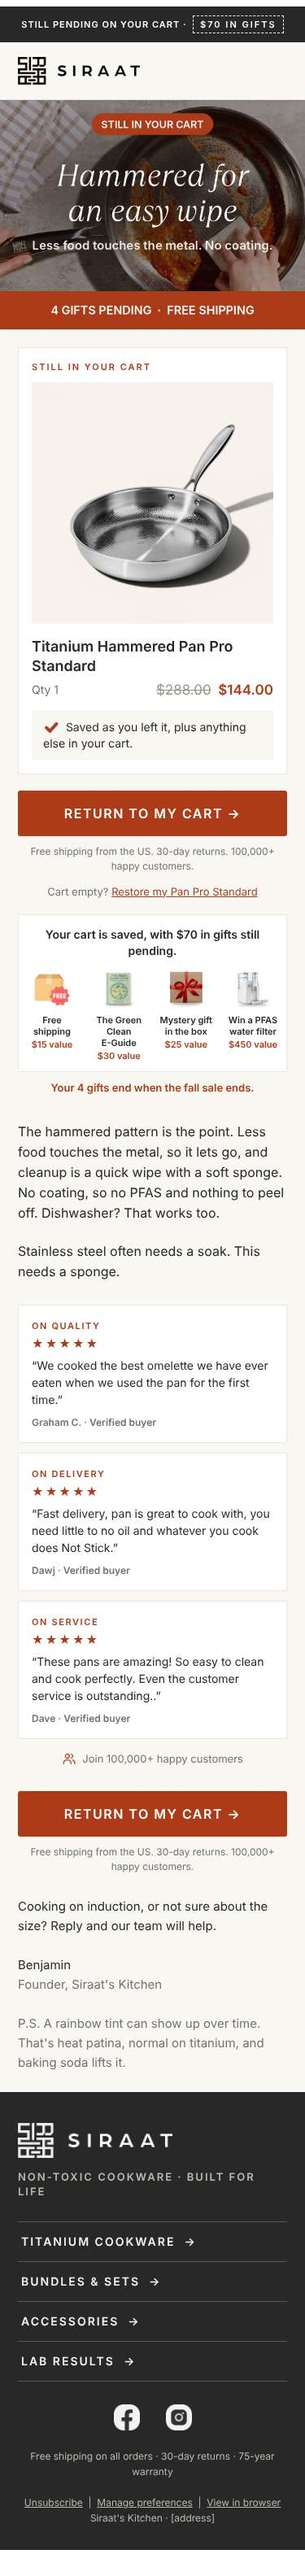
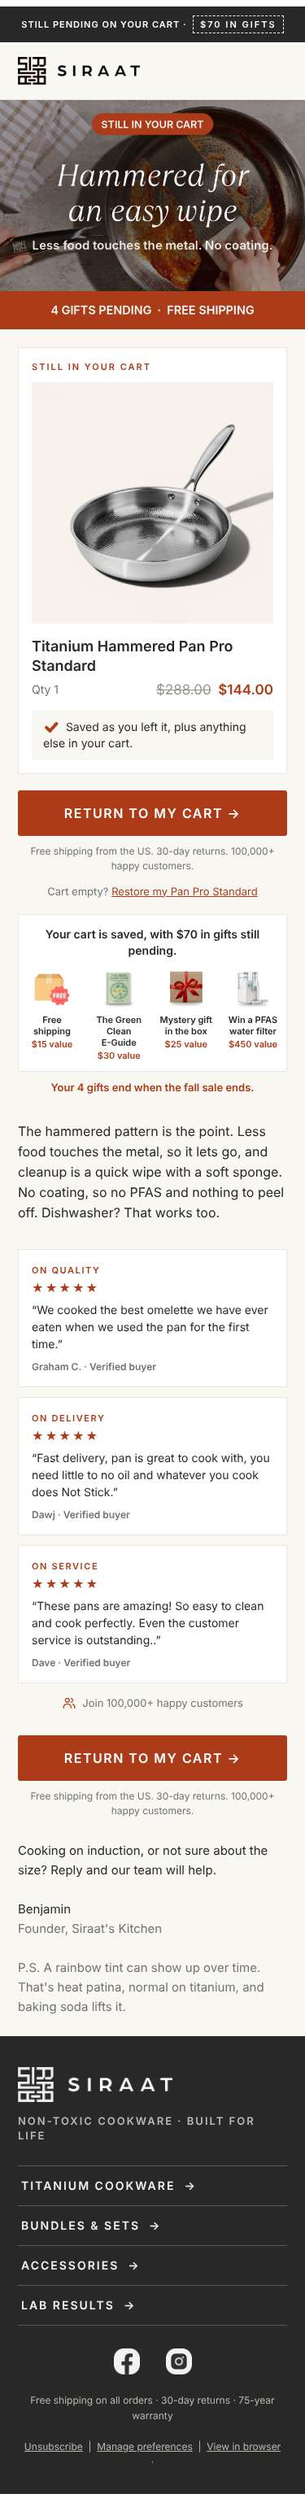
K1 v2: RVS-vergelijking weggehaald
Claude-Session: https://claude.ai/code/session_01HjCaDE95ohEXY6DPZTSH67

diff --git a/klaviyo/templates/v3/cart/k1-v2-preview.html b/klaviyo/templates/v3/cart/k1-v2-preview.html
@@ -162,68 +162,6 @@
 
 <tr><td class="pad lead" style="padding:26px 44px 4px 44px;font-family:Inter,Arial,Helvetica,sans-serif;font-size:16px;line-height:25px;color:#282828;">The hammered pattern is the point. Less food touches the metal, so it lets go, and cleanup is a quick wipe with a soft sponge. No coating, so no PFAS and nothing to peel off. Dishwasher? That works too.</td></tr>
 
-<!-- Pan Pro: een zin RVS (closer look weggehaald op 10 okt voor de lengte: het grote productbeeld toont de pan al); andere pannen en sets: de RVS-vergelijking (een vergelijking per flow: RVS alleen in K1) -->
-{% if 'Hammered Pan Pro' in event|lookup:'Product Name' %}
-<tr><td class="pad lead" style="padding:18px 44px 0 44px;font-family:Inter,Arial,Helvetica,sans-serif;font-size:15px;line-height:24px;color:#282828;">Stainless steel often needs a soak. This needs a sponge.</td></tr>
-{% elif 'Pan' in event|lookup:'Product Name' or 'Wok' in event|lookup:'Product Name' or 'ookware' in event|lookup:'Product Name' %}
-<!-- BLOCK compare (research/ux-round2): vergelijkingstabel, 5 rijen, live tekst, eigen kolom wit, andere kolom grijs.
-     Kopstuk compare-cap-panpro.png = scripts/make_compare_assets.py (productfoto steekt over de rand). Iconen: icon-check (brick), icon-cross, icon-same (grijs vinkje, voor gedeelde eigenschappen). -->
-<tr><td class="pad" style="padding:30px 44px 6px 44px;">
-  <div style="font-family:Inter,Arial,Helvetica,sans-serif;font-size:12px;line-height:16px;letter-spacing:2px;font-weight:600;color:#AC3B19;text-align:center;">SIDE BY SIDE</div>
-  <div class="h2" style="font-family:'Instrument Serif','Times New Roman',serif;font-style:italic;font-size:36px;line-height:40px;color:#282828;text-align:center;padding:6px 0 10px 0;">Your future pan vs stainless steel</div>
-  <table role="presentation" width="100%" cellpadding="0" cellspacing="0" border="0" style="width:100%;table-layout:fixed;">
-    <tr><td colspan="2" style="padding:0;font-size:0;line-height:0;"><img src="../../partials/shared/compare-cap-panpro.png" width="512" alt="" style="display:block;width:100%;max-width:512px;height:auto;"></td></tr>
-    <tr>
-      <td width="50%" align="center" valign="bottom" bgcolor="#FFFFFF" class="cmp-h" style="background:#FFFFFF;padding:0 12px 14px 12px;border-bottom:1px solid #ECE7DD;font-family:Inter,Arial,Helvetica,sans-serif;font-size:17px;line-height:22px;font-weight:600;color:#282828;">Your future pan</td>
-      <td width="50%" align="center" valign="bottom" bgcolor="#ECE8E1" class="cmp-h" style="background:#ECE8E1;padding:0 12px 14px 12px;border-bottom:1px solid #DDD7CD;font-family:Inter,Arial,Helvetica,sans-serif;font-size:17px;line-height:22px;font-weight:600;color:#5E5A55;">Stainless steel</td>
-    </tr>
-        <tr>
-      <td height="64" valign="middle" bgcolor="#FFFFFF" class="cmp-c" style="background:#FFFFFF;height:64px;padding:0 10px 0 18px;border-bottom:1px solid #ECE7DD;"><table role="presentation" cellpadding="0" cellspacing="0" border="0"><tr>
-        <td width="24" valign="middle" style="padding:0 8px 0 0;"><img src="../../partials/shared/icon-check.png" width="16" height="16" alt="Yes:" style="display:block;width:16px;height:16px;"></td>
-        <td valign="middle" class="cmp-t" style="font-family:Inter,Arial,Helvetica,sans-serif;font-size:15px;line-height:20px;font-weight:600;color:#282828;">Hammered for natural release</td></tr></table></td>
-      <td height="64" valign="middle" bgcolor="#ECE8E1" class="cmp-c" style="background:#ECE8E1;height:64px;padding:0 10px 0 18px;border-bottom:1px solid #DDD7CD;"><table role="presentation" cellpadding="0" cellspacing="0" border="0"><tr>
-        <td width="24" valign="middle" style="padding:0 8px 0 0;"><img src="../../partials/shared/icon-cross.png" width="16" height="16" alt="No:" style="display:block;width:16px;height:16px;"></td>
-        <td valign="middle" class="cmp-t" style="font-family:Inter,Arial,Helvetica,sans-serif;font-size:15px;line-height:20px;color:#5E5A55;">Food tends to stick</td></tr></table></td>
-    </tr>
-    <tr>
-      <td height="64" valign="middle" bgcolor="#FFFFFF" class="cmp-c" style="background:#FFFFFF;height:64px;padding:0 10px 0 18px;border-bottom:1px solid #ECE7DD;"><table role="presentation" cellpadding="0" cellspacing="0" border="0"><tr>
-        <td width="24" valign="middle" style="padding:0 8px 0 0;"><img src="../../partials/shared/icon-check.png" width="16" height="16" alt="Yes:" style="display:block;width:16px;height:16px;"></td>
-        <td valign="middle" class="cmp-t" style="font-family:Inter,Arial,Helvetica,sans-serif;font-size:15px;line-height:20px;font-weight:600;color:#282828;">Cleanup in 30 seconds</td></tr></table></td>
-      <td height="64" valign="middle" bgcolor="#ECE8E1" class="cmp-c" style="background:#ECE8E1;height:64px;padding:0 10px 0 18px;border-bottom:1px solid #DDD7CD;"><table role="presentation" cellpadding="0" cellspacing="0" border="0"><tr>
-        <td width="24" valign="middle" style="padding:0 8px 0 0;"><img src="../../partials/shared/icon-cross.png" width="16" height="16" alt="No:" style="display:block;width:16px;height:16px;"></td>
-        <td valign="middle" class="cmp-t" style="font-family:Inter,Arial,Helvetica,sans-serif;font-size:15px;line-height:20px;color:#5E5A55;">Often needs a soak</td></tr></table></td>
-    </tr>
-    <tr>
-      <td height="64" valign="middle" bgcolor="#FFFFFF" class="cmp-c" style="background:#FFFFFF;height:64px;padding:0 10px 0 18px;border-bottom:1px solid #ECE7DD;"><table role="presentation" cellpadding="0" cellspacing="0" border="0"><tr>
-        <td width="24" valign="middle" style="padding:0 8px 0 0;"><img src="../../partials/shared/icon-check.png" width="16" height="16" alt="Yes:" style="display:block;width:16px;height:16px;"></td>
-        <td valign="middle" class="cmp-t" style="font-family:Inter,Arial,Helvetica,sans-serif;font-size:15px;line-height:20px;font-weight:600;color:#282828;">75-year warranty</td></tr></table></td>
-      <td height="64" valign="middle" bgcolor="#ECE8E1" class="cmp-c" style="background:#ECE8E1;height:64px;padding:0 10px 0 18px;border-bottom:1px solid #DDD7CD;"><table role="presentation" cellpadding="0" cellspacing="0" border="0"><tr>
-        <td width="24" valign="middle" style="padding:0 8px 0 0;"><img src="../../partials/shared/icon-cross.png" width="16" height="16" alt="No:" style="display:block;width:16px;height:16px;"></td>
-        <td valign="middle" class="cmp-t" style="font-family:Inter,Arial,Helvetica,sans-serif;font-size:15px;line-height:20px;color:#5E5A55;">Varies by brand</td></tr></table></td>
-    </tr>
-    <tr>
-      <td height="64" valign="middle" bgcolor="#FFFFFF" class="cmp-c" style="background:#FFFFFF;height:64px;padding:0 10px 0 18px;border-bottom:1px solid #ECE7DD;"><table role="presentation" cellpadding="0" cellspacing="0" border="0"><tr>
-        <td width="24" valign="middle" style="padding:0 8px 0 0;"><img src="../../partials/shared/icon-check.png" width="16" height="16" alt="Yes:" style="display:block;width:16px;height:16px;"></td>
-        <td valign="middle" class="cmp-t" style="font-family:Inter,Arial,Helvetica,sans-serif;font-size:15px;line-height:20px;font-weight:600;color:#282828;">Lab tested PFAS-free</td></tr></table></td>
-      <td height="64" valign="middle" bgcolor="#ECE8E1" class="cmp-c" style="background:#ECE8E1;height:64px;padding:0 10px 0 18px;border-bottom:1px solid #DDD7CD;"><table role="presentation" cellpadding="0" cellspacing="0" border="0"><tr>
-        <td width="24" valign="middle" style="padding:0 8px 0 0;"><img src="../../partials/shared/icon-same.png" width="16" height="16" alt="Also yes:" style="display:block;width:16px;height:16px;"></td>
-        <td valign="middle" class="cmp-t" style="font-family:Inter,Arial,Helvetica,sans-serif;font-size:15px;line-height:20px;color:#5E5A55;">PFAS-free too</td></tr></table></td>
-    </tr>
-    <tr>
-      <td height="64" valign="middle" bgcolor="#FFFFFF" class="cmp-c" style="background:#FFFFFF;height:64px;padding:0 10px 0 18px;border-bottom:1px solid #ECE7DD;border-bottom:0;border-radius:0 0 0 12px;"><table role="presentation" cellpadding="0" cellspacing="0" border="0"><tr>
-        <td width="24" valign="middle" style="padding:0 8px 0 0;"><img src="../../partials/shared/icon-check.png" width="16" height="16" alt="Yes:" style="display:block;width:16px;height:16px;"></td>
-        <td valign="middle" class="cmp-t" style="font-family:Inter,Arial,Helvetica,sans-serif;font-size:15px;line-height:20px;font-weight:600;color:#282828;">Induction ready</td></tr></table></td>
-      <td height="64" valign="middle" bgcolor="#ECE8E1" class="cmp-c" style="background:#ECE8E1;height:64px;padding:0 10px 0 18px;border-bottom:1px solid #DDD7CD;border-bottom:0;border-radius:0 0 12px 0;"><table role="presentation" cellpadding="0" cellspacing="0" border="0"><tr>
-        <td width="24" valign="middle" style="padding:0 8px 0 0;"><img src="../../partials/shared/icon-same.png" width="16" height="16" alt="Also yes:" style="display:block;width:16px;height:16px;"></td>
-        <td valign="middle" class="cmp-t" style="font-family:Inter,Arial,Helvetica,sans-serif;font-size:15px;line-height:20px;color:#5E5A55;">Induction ready too</td></tr></table></td>
-    </tr>
-
-  </table>
-  <div style="font-family:Inter,Arial,Helvetica,sans-serif;font-size:12px;line-height:18px;color:#6E6A63;text-align:center;padding-top:10px;">Cleanup in 30 seconds: verified review, Thomas H. Light Labs report no. 25895.</div>
-</td></tr>
-
-{% endif %}
-
 <!-- BLOCK reviews3 (v5, scripts/v5lib.py + content/reviews/sets.json uit scripts/make_review_blocks.py): 2 of 3 echte Trustpilot-reviews, letterlijk, met sterren, naam, Verified buyer en pijler (On quality / On delivery / On service). Desktop naast elkaar, mobiel onder elkaar. -->
 <tr><td class="pad" data-reviews3="1" style="padding:28px 44px 6px 44px;">
   

diff --git a/klaviyo/templates/v3/cart/k1-v2.klaviyo.html b/klaviyo/templates/v3/cart/k1-v2.klaviyo.html
@@ -151,65 +151,6 @@
 
 <tr><td class="pad lead" style="padding:26px 44px 4px 44px;font-family:Inter,Arial,Helvetica,sans-serif;font-size:16px;line-height:25px;color:#282828;">The hammered pattern is the point. Less food touches the metal, so it lets go, and cleanup is a quick wipe with a soft sponge. No coating, so no PFAS and nothing to peel off. Dishwasher? That works too.</td></tr>
 
-<!--{% if 'Hammered Pan Pro' in event|lookup:'Product Name' %}-->
-<tr><td class="pad lead" style="padding:18px 44px 0 44px;font-family:Inter,Arial,Helvetica,sans-serif;font-size:15px;line-height:24px;color:#282828;">Stainless steel often needs a soak. This needs a sponge.</td></tr>
-<!--{% elif 'Pan' in event|lookup:'Product Name' or 'Wok' in event|lookup:'Product Name' or 'ookware' in event|lookup:'Product Name' %}-->
-<tr><td class="pad" style="padding:30px 44px 6px 44px;">
-  <div style="font-family:Inter,Arial,Helvetica,sans-serif;font-size:12px;line-height:16px;letter-spacing:2px;font-weight:600;color:#AC3B19;text-align:center;">SIDE BY SIDE</div>
-  <div class="h2" style="font-family:'Instrument Serif','Times New Roman',serif;font-style:italic;font-size:36px;line-height:40px;color:#282828;text-align:center;padding:6px 0 10px 0;">Your future pan vs stainless steel</div>
-  <table role="presentation" width="100%" cellpadding="0" cellspacing="0" border="0" style="width:100%;table-layout:fixed;">
-    <tr><td colspan="2" style="padding:0;font-size:0;line-height:0;"><img src="https://cdn.klaviyomail.com/company/TdtTzz/images/adf1c2fa-cd6b-44ff-b2d8-38a2b2a69928.png" width="512" alt="" style="display:block;width:100%;max-width:512px;height:auto;"></td></tr>
-    <tr>
-      <td width="50%" align="center" valign="bottom" bgcolor="#FFFFFF" class="cmp-h" style="background:#FFFFFF;padding:0 12px 14px 12px;border-bottom:1px solid #ECE7DD;font-family:Inter,Arial,Helvetica,sans-serif;font-size:17px;line-height:22px;font-weight:600;color:#282828;">Your future pan</td>
-      <td width="50%" align="center" valign="bottom" bgcolor="#ECE8E1" class="cmp-h" style="background:#ECE8E1;padding:0 12px 14px 12px;border-bottom:1px solid #DDD7CD;font-family:Inter,Arial,Helvetica,sans-serif;font-size:17px;line-height:22px;font-weight:600;color:#5E5A55;">Stainless steel</td>
-    </tr>
-        <tr>
-      <td height="64" valign="middle" bgcolor="#FFFFFF" class="cmp-c" style="background:#FFFFFF;height:64px;padding:0 10px 0 18px;border-bottom:1px solid #ECE7DD;"><table role="presentation" cellpadding="0" cellspacing="0" border="0"><tr>
-        <td width="24" valign="middle" style="padding:0 8px 0 0;"><img src="https://cdn.klaviyomail.com/company/TdtTzz/images/6d715e47-cf75-4606-a1d2-63d4dd4717c7.png" width="16" height="16" alt="Yes:" style="display:block;width:16px;height:16px;"></td>
-        <td valign="middle" class="cmp-t" style="font-family:Inter,Arial,Helvetica,sans-serif;font-size:15px;line-height:20px;font-weight:600;color:#282828;">Hammered for natural release</td></tr></table></td>
-      <td height="64" valign="middle" bgcolor="#ECE8E1" class="cmp-c" style="background:#ECE8E1;height:64px;padding:0 10px 0 18px;border-bottom:1px solid #DDD7CD;"><table role="presentation" cellpadding="0" cellspacing="0" border="0"><tr>
-        <td width="24" valign="middle" style="padding:0 8px 0 0;"><img src="https://cdn.klaviyomail.com/company/TdtTzz/images/8819b4d3-7a7c-4f6f-82d7-70b6ce6971d8.png" width="16" height="16" alt="No:" style="display:block;width:16px;height:16px;"></td>
-        <td valign="middle" class="cmp-t" style="font-family:Inter,Arial,Helvetica,sans-serif;font-size:15px;line-height:20px;color:#5E5A55;">Food tends to stick</td></tr></table></td>
-    </tr>
-    <tr>
-      <td height="64" valign="middle" bgcolor="#FFFFFF" class="cmp-c" style="background:#FFFFFF;height:64px;padding:0 10px 0 18px;border-bottom:1px solid #ECE7DD;"><table role="presentation" cellpadding="0" cellspacing="0" border="0"><tr>
-        <td width="24" valign="middle" style="padding:0 8px 0 0;"><img src="https://cdn.klaviyomail.com/company/TdtTzz/images/6d715e47-cf75-4606-a1d2-63d4dd4717c7.png" width="16" height="16" alt="Yes:" style="display:block;width:16px;height:16px;"></td>
-        <td valign="middle" class="cmp-t" style="font-family:Inter,Arial,Helvetica,sans-serif;font-size:15px;line-height:20px;font-weight:600;color:#282828;">Cleanup in 30 seconds</td></tr></table></td>
-      <td height="64" valign="middle" bgcolor="#ECE8E1" class="cmp-c" style="background:#ECE8E1;height:64px;padding:0 10px 0 18px;border-bottom:1px solid #DDD7CD;"><table role="presentation" cellpadding="0" cellspacing="0" border="0"><tr>
-        <td width="24" valign="middle" style="padding:0 8px 0 0;"><img src="https://cdn.klaviyomail.com/company/TdtTzz/images/8819b4d3-7a7c-4f6f-82d7-70b6ce6971d8.png" width="16" height="16" alt="No:" style="display:block;width:16px;height:16px;"></td>
-        <td valign="middle" class="cmp-t" style="font-family:Inter,Arial,Helvetica,sans-serif;font-size:15px;line-height:20px;color:#5E5A55;">Often needs a soak</td></tr></table></td>
-    </tr>
-    <tr>
-      <td height="64" valign="middle" bgcolor="#FFFFFF" class="cmp-c" style="background:#FFFFFF;height:64px;padding:0 10px 0 18px;border-bottom:1px solid #ECE7DD;"><table role="presentation" cellpadding="0" cellspacing="0" border="0"><tr>
-        <td width="24" valign="middle" style="padding:0 8px 0 0;"><img src="https://cdn.klaviyomail.com/company/TdtTzz/images/6d715e47-cf75-4606-a1d2-63d4dd4717c7.png" width="16" height="16" alt="Yes:" style="display:block;width:16px;height:16px;"></td>
-        <td valign="middle" class="cmp-t" style="font-family:Inter,Arial,Helvetica,sans-serif;font-size:15px;line-height:20px;font-weight:600;color:#282828;">75-year warranty</td></tr></table></td>
-      <td height="64" valign="middle" bgcolor="#ECE8E1" class="cmp-c" style="background:#ECE8E1;height:64px;padding:0 10px 0 18px;border-bottom:1px solid #DDD7CD;"><table role="presentation" cellpadding="0" cellspacing="0" border="0"><tr>
-        <td width="24" valign="middle" style="padding:0 8px 0 0;"><img src="https://cdn.klaviyomail.com/company/TdtTzz/images/8819b4d3-7a7c-4f6f-82d7-70b6ce6971d8.png" width="16" height="16" alt="No:" style="display:block;width:16px;height:16px;"></td>
-        <td valign="middle" class="cmp-t" style="font-family:Inter,Arial,Helvetica,sans-serif;font-size:15px;line-height:20px;color:#5E5A55;">Varies by brand</td></tr></table></td>
-    </tr>
-    <tr>
-      <td height="64" valign="middle" bgcolor="#FFFFFF" class="cmp-c" style="background:#FFFFFF;height:64px;padding:0 10px 0 18px;border-bottom:1px solid #ECE7DD;"><table role="presentation" cellpadding="0" cellspacing="0" border="0"><tr>
-        <td width="24" valign="middle" style="padding:0 8px 0 0;"><img src="https://cdn.klaviyomail.com/company/TdtTzz/images/6d715e47-cf75-4606-a1d2-63d4dd4717c7.png" width="16" height="16" alt="Yes:" style="display:block;width:16px;height:16px;"></td>
-        <td valign="middle" class="cmp-t" style="font-family:Inter,Arial,Helvetica,sans-serif;font-size:15px;line-height:20px;font-weight:600;color:#282828;">Lab tested PFAS-free</td></tr></table></td>
-      <td height="64" valign="middle" bgcolor="#ECE8E1" class="cmp-c" style="background:#ECE8E1;height:64px;padding:0 10px 0 18px;border-bottom:1px solid #DDD7CD;"><table role="presentation" cellpadding="0" cellspacing="0" border="0"><tr>
-        <td width="24" valign="middle" style="padding:0 8px 0 0;"><img src="https://cdn.klaviyomail.com/company/TdtTzz/images/10f25c8b-1989-4eb5-ba87-ceb91ad359e8.png" width="16" height="16" alt="Also yes:" style="display:block;width:16px;height:16px;"></td>
-        <td valign="middle" class="cmp-t" style="font-family:Inter,Arial,Helvetica,sans-serif;font-size:15px;line-height:20px;color:#5E5A55;">PFAS-free too</td></tr></table></td>
-    </tr>
-    <tr>
-      <td height="64" valign="middle" bgcolor="#FFFFFF" class="cmp-c" style="background:#FFFFFF;height:64px;padding:0 10px 0 18px;border-bottom:1px solid #ECE7DD;border-bottom:0;border-radius:0 0 0 12px;"><table role="presentation" cellpadding="0" cellspacing="0" border="0"><tr>
-        <td width="24" valign="middle" style="padding:0 8px 0 0;"><img src="https://cdn.klaviyomail.com/company/TdtTzz/images/6d715e47-cf75-4606-a1d2-63d4dd4717c7.png" width="16" height="16" alt="Yes:" style="display:block;width:16px;height:16px;"></td>
-        <td valign="middle" class="cmp-t" style="font-family:Inter,Arial,Helvetica,sans-serif;font-size:15px;line-height:20px;font-weight:600;color:#282828;">Induction ready</td></tr></table></td>
-      <td height="64" valign="middle" bgcolor="#ECE8E1" class="cmp-c" style="background:#ECE8E1;height:64px;padding:0 10px 0 18px;border-bottom:1px solid #DDD7CD;border-bottom:0;border-radius:0 0 12px 0;"><table role="presentation" cellpadding="0" cellspacing="0" border="0"><tr>
-        <td width="24" valign="middle" style="padding:0 8px 0 0;"><img src="https://cdn.klaviyomail.com/company/TdtTzz/images/10f25c8b-1989-4eb5-ba87-ceb91ad359e8.png" width="16" height="16" alt="Also yes:" style="display:block;width:16px;height:16px;"></td>
-        <td valign="middle" class="cmp-t" style="font-family:Inter,Arial,Helvetica,sans-serif;font-size:15px;line-height:20px;color:#5E5A55;">Induction ready too</td></tr></table></td>
-    </tr>
-
-  </table>
-  <div style="font-family:Inter,Arial,Helvetica,sans-serif;font-size:12px;line-height:18px;color:#6E6A63;text-align:center;padding-top:10px;">Cleanup in 30 seconds: verified review, Thomas H. Light Labs report no. 25895.</div>
-</td></tr>
-
-<!--{% endif %}-->
-
 <tr><td class="pad" data-reviews3="1" style="padding:28px 44px 6px 44px;">
   
   <table role="presentation" width="100%" cellpadding="0" cellspacing="0" border="0"><tr>

diff --git a/klaviyo/templates/v3/cart/k1-v2.html b/klaviyo/templates/v3/cart/k1-v2.html
@@ -79,13 +79,6 @@
 
 <tr><td class="pad lead" style="padding:26px 44px 4px 44px;font-family:Inter,Arial,Helvetica,sans-serif;font-size:16px;line-height:25px;color:#282828;">The hammered pattern is the point. Less food touches the metal, so it lets go, and cleanup is a quick wipe with a soft sponge. No coating, so no PFAS and nothing to peel off. Dishwasher? That works too.</td></tr>
 
-<!-- Pan Pro: een zin RVS (closer look weggehaald op 10 okt voor de lengte: het grote productbeeld toont de pan al); andere pannen en sets: de RVS-vergelijking (een vergelijking per flow: RVS alleen in K1) -->
-{% if 'Hammered Pan Pro' in event|lookup:'Product Name' %}
-<tr><td class="pad lead" style="padding:18px 44px 0 44px;font-family:Inter,Arial,Helvetica,sans-serif;font-size:15px;line-height:24px;color:#282828;">Stainless steel often needs a soak. This needs a sponge.</td></tr>
-{% elif 'Pan' in event|lookup:'Product Name' or 'Wok' in event|lookup:'Product Name' or 'ookware' in event|lookup:'Product Name' %}
-{{BLOCK:vs kind="steel" pad="30px 44px 6px 44px"}}
-{% endif %}
-
 {{BLOCK:reviews3 set="k1" pad="28px 44px 6px 44px"}}
 
 {{BLOCK:cta label="Return to my cart" url="https://siraatskitchen.com/cart?utm_source=klaviyo&utm_medium=email&utm_campaign=v4-cart&utm_content=k1-cta2" pad="24px 44px 6px 44px" sub="<div style='font-family:Inter,Arial,Helvetica,sans-serif;font-size:12px;line-height:18px;color:#727272;padding-top:10px;'>{{FRICTION}}</div>"}}

diff --git a/LOG.md b/LOG.md
@@ -120,3 +120,4 @@ Nieuwste bovenaan. Elke regel: datum, wat er gedaan is, wat het opleverde of wat
 - 2026-10-10 · K1-voorstel (research/v6-golive/18-k1-voorstel.md): lokale variant klaviyo/templates/v3/cart/k1-v2.html met hero, productkaart en knoppen naar de cart-permalink (/cart/VariantID:Quantity, fallback /cart), knop 'Complete my order', productkaart met beeld op volle breedte en compare-at voor USD (Floris bevestigen). Checks groen, 375 px 3.738 px. Figma nu vs nieuw: ahGP2wWoVIif8ETXcBq1Dj node 79-2. Niets in Klaviyo gewijzigd.
 - 2026-10-10 · K1-voorstel herzien (18-k1-voorstel.md) na keuze Floris: hero, productkaart en beide knoppen in k1-v2 naar de winkelwagenpagina /cart (permalink liet 2+ producten en de gift-app vallen), knop 'Return to my cart', klein restore-linkje onder knop 1 naar /cart/VariantID:Qty?storefront=true (alleen met VariantID), regel 'plus anything else in your cart', closer look weggehaald: 375 px 3.167 px. Checks 0 op echt US, zonder VariantID, EUR, leeg; apple/gmailios/gmailtrim schoon. Figma 79-2 bijgewerkt (NIEUW-render, annotaties, notitie meerdere producten 89/348). Compare-at nog Floris. Niets in Klaviyo gewijzigd.
 - 2026-10-10 13:52 UTC: compare-at gecontroleerd in Shopify (event = catalogus: Pan Pro Standard $144/$288, Large $149/$298, Small $137/$274, Set 12 $599/$1,186). Testtemplate ScS2aV (K1 v2 cartpagina, los van flow) in Klaviyo gerenderd met echt US-event: geen restanten, preview en bg 0, /cart 200, restore-link 302 naar /cart. Preview-send naar Floris.
+- 2026-10-10 14:05 UTC: K1 v2: RVS-zin (Stainless steel often needs a soak) en RVS-vergelijking weggehaald op verzoek Floris. Testtemplate ScS2aV bijgewerkt, renders pan/set/leeg zonder restanten, preview en bg 0, 375 px 2.782 px hoog. Testmail [T2] naar Floris.
